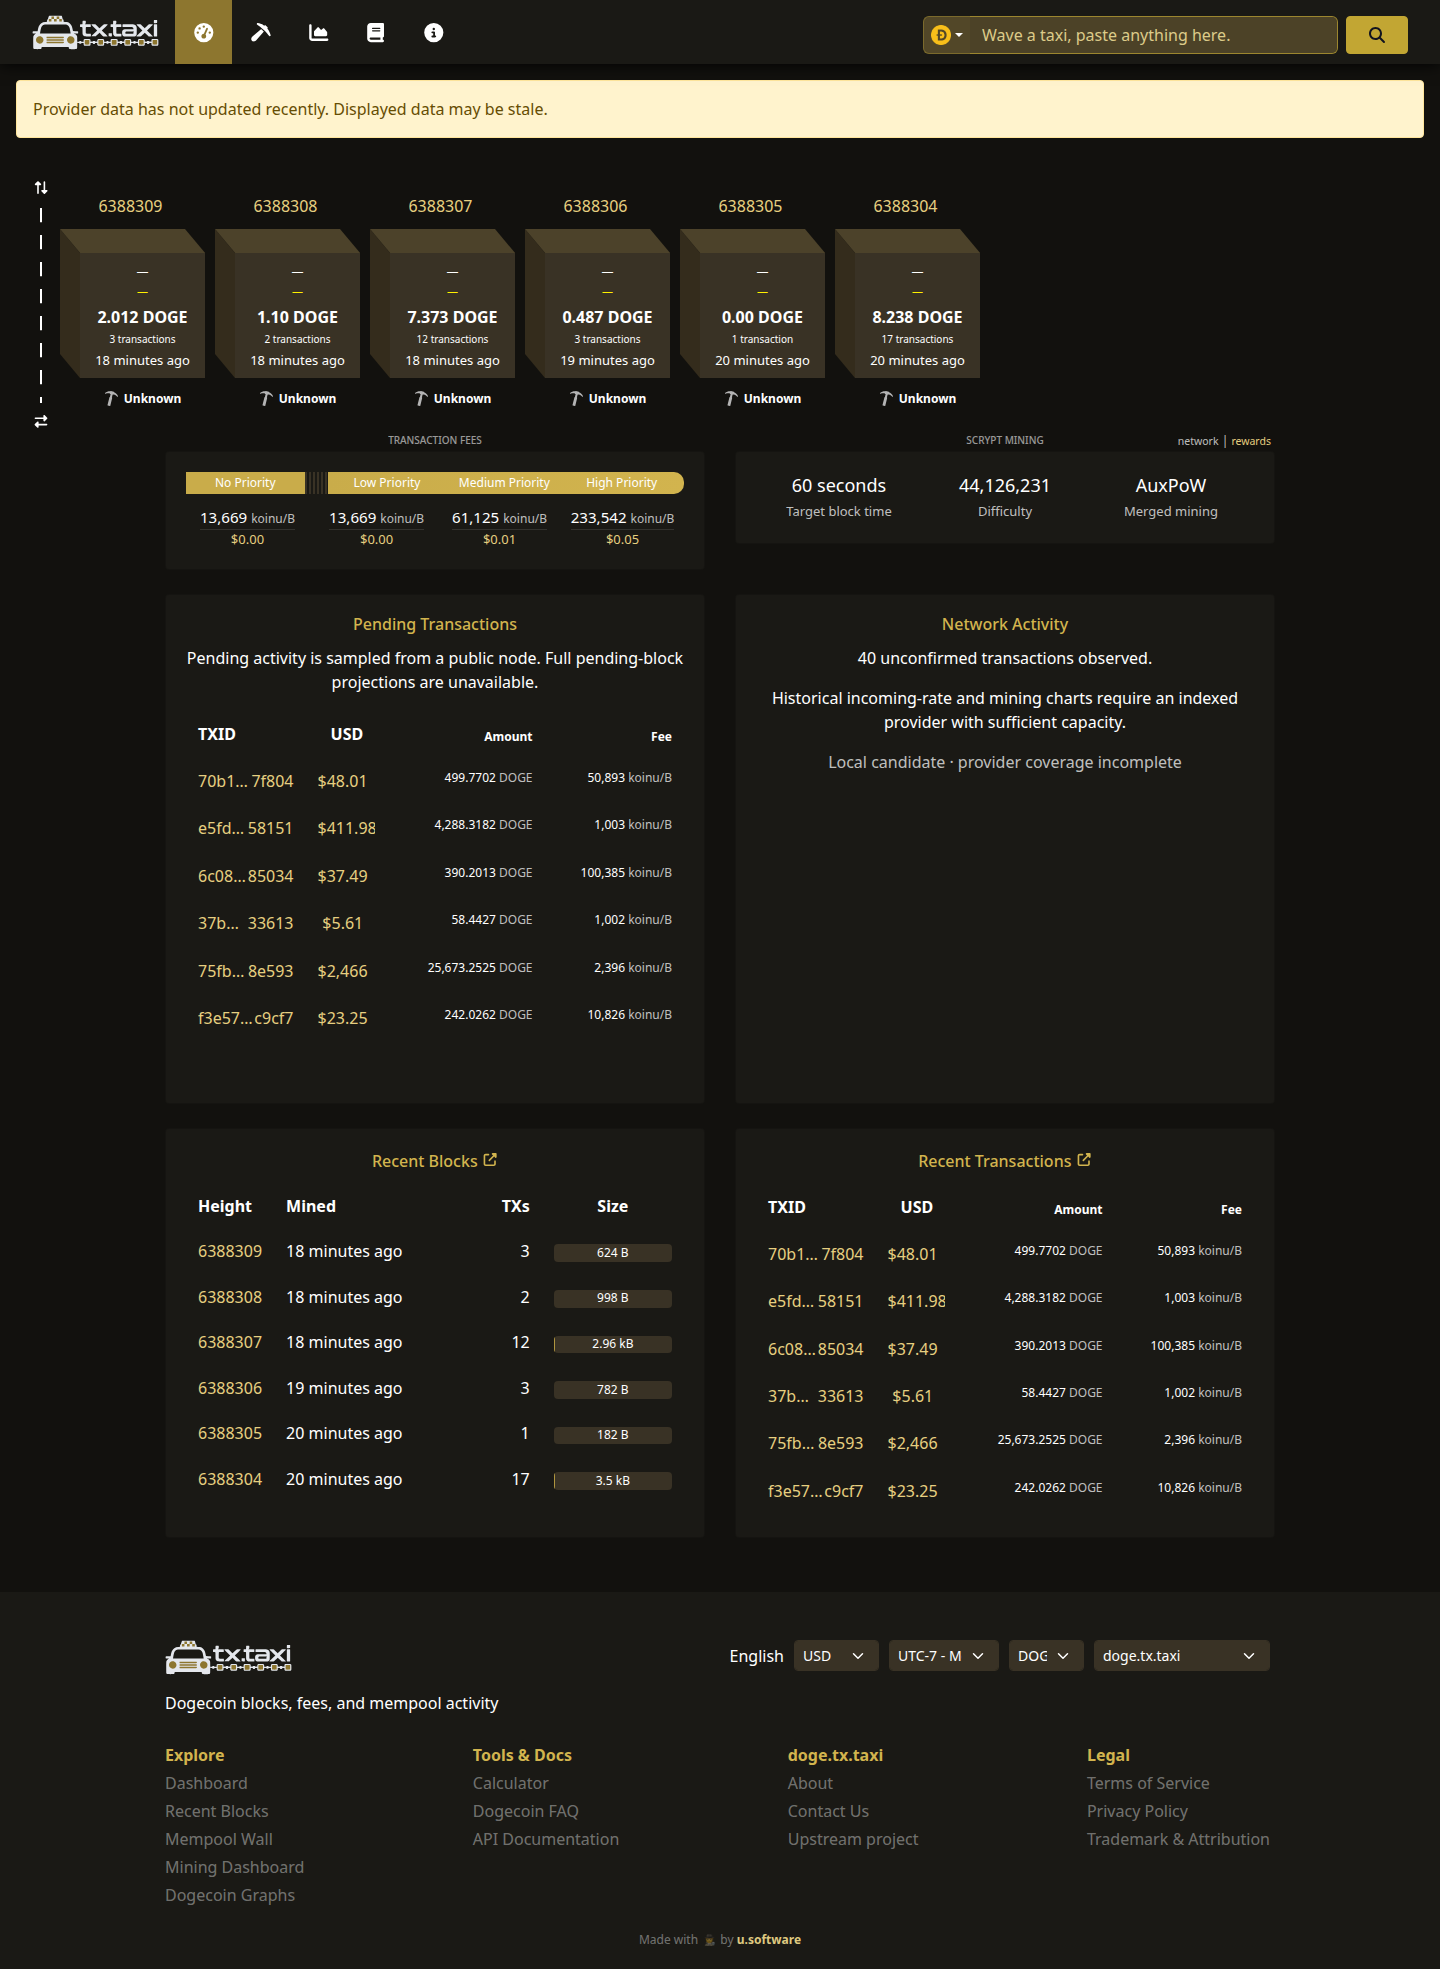
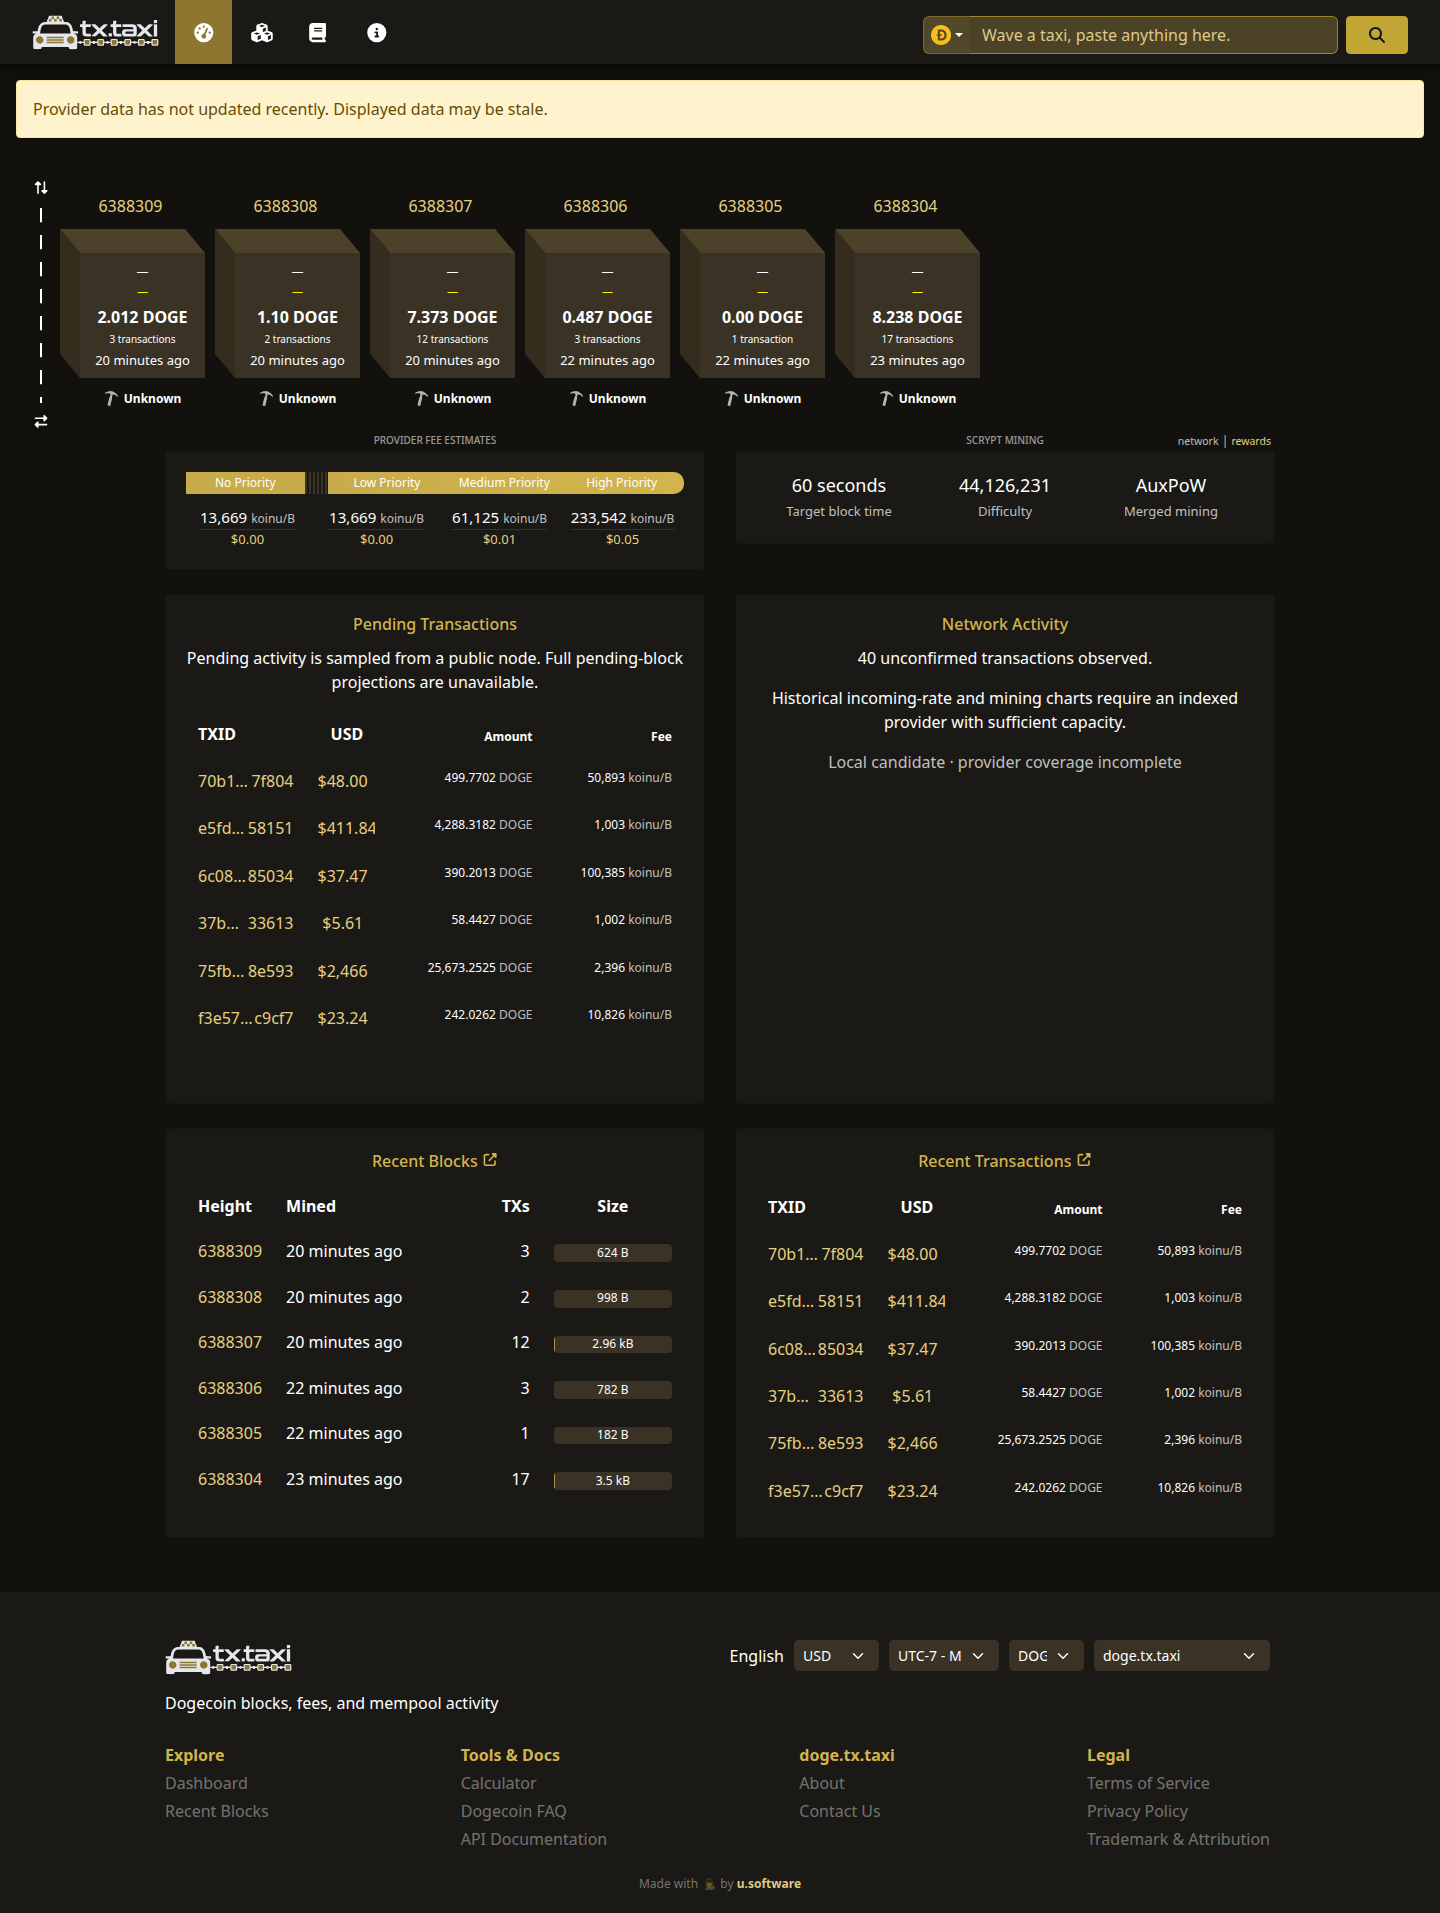
Prune unavailable DOGE navigation and label provider fee estimates

diff --git a/frontend/src/app/components/master-page/master-page.component.html b/frontend/src/app/components/master-page/master-page.component.html
@@ -83,24 +83,14 @@
           <div class="svg-wrapper"><app-svg-images name="nav-tachometer" width="21.59" height="100%"></app-svg-images></div>
         </a>
       </li>
-      <li class="nav-item mining" routerLinkActive="active" [routerLinkActiveOptions]="{exact: true}" id="btn-pools" *ngIf="stateService.env.MINING_DASHBOARD">
-        <a class="nav-link" [routerLink]="['/mining' | relativeUrl]" (click)="collapse()" aria-label="Mining dashboard" title="Mining dashboard">
-          <div class="svg-wrapper"><app-svg-images name="nav-pickaxe" width="21.59" height="100%"></app-svg-images></div>
-        </a>
-      </li>
       <li class="nav-item" routerLinkActive="active" [routerLinkActiveOptions]="{exact: true}" id="btn-lightning" *ngIf="stateService.networkSupportsLightning()">
         <a class="nav-link" [routerLink]="['/lightning' | relativeUrl]" (click)="collapse()">
           <div class="svg-wrapper"><app-svg-images name="nav-bolt" width="21.59" height="100%"></app-svg-images></div>
         </a>
       </li>
-      <li class="nav-item" routerLinkActive="active" id="btn-blocks" *ngIf="!stateService.env.MINING_DASHBOARD">
+      <li class="nav-item" routerLinkActive="active" id="btn-blocks">
         <a class="nav-link" [routerLink]="['/blocks' | relativeUrl]" (click)="collapse()" aria-label="Recent blocks" title="Recent blocks">
           <div class="svg-wrapper"><app-svg-images name="nav-cubes" width="21.59" height="100%"></app-svg-images></div>
-        </a>
-      </li>
-      <li class="nav-item" routerLinkActive="active" id="btn-graphs">
-        <a class="nav-link" [routerLink]="['/graphs' | relativeUrl]" (click)="collapse()" aria-label="Dogecoin graphs" title="Dogecoin graphs">
-          <div class="svg-wrapper"><app-svg-images name="nav-chart-area" width="21.59" height="100%"></app-svg-images></div>
         </a>
       </li>
       <li class="nav-item" routerLinkActive="active" id="btn-faucet" *ngIf="stateService.isMempoolSpaceBuild && stateService.env.OFFICIAL_MEMPOOL_SPACE && stateService.network === 'testnet4'">

diff --git a/frontend/src/app/shared/components/global-footer/global-footer.component.html b/frontend/src/app/shared/components/global-footer/global-footer.component.html
@@ -48,9 +48,6 @@
         <p class="category">Explore</p>
         <p><a [routerLink]="['/' | relativeUrl]">Dashboard</a></p>
         <p><a [routerLink]="['/blocks' | relativeUrl]">Recent Blocks</a></p>
-        <p><a [routerLink]="['/mempool-block/0' | relativeUrl]">Mempool Wall</a></p>
-        <p><a *ngIf="env.MINING_DASHBOARD" [routerLink]="['/mining' | relativeUrl]">Mining Dashboard</a></p>
-        <p><a [routerLink]="['/graphs' | relativeUrl]">Dogecoin Graphs</a></p>
       </div>
       <div class="links">
         <p class="category">Tools &amp; Docs</p>
@@ -65,7 +62,6 @@
         <p class="category">doge.tx.taxi</p>
         <p><a [routerLink]="['/about']">About</a></p>
         <p><a href="https://t.me/hiss" target="_blank" rel="noopener noreferrer">Contact Us</a></p>
-        <p><a href="https://github.com/mempool/mempool" target="_blank" rel="noopener noreferrer">Upstream project</a></p>
       </div>
       <div class="links">
         <p class="category">Legal</p>

diff --git a/frontend/src/app/components/custom-dashboard/custom-dashboard.component.html b/frontend/src/app/components/custom-dashboard/custom-dashboard.component.html
@@ -5,7 +5,7 @@
       @switch (widget.component) {
         @case ('fees') {
           <div class="col card-wrapper" [style.order]="isMobile && widget.mobileOrder || 8">
-            <div class="main-title" i18n="fees-box.transaction-fees">Transaction Fees</div>
+            <div class="main-title" title="BlockCypher fee estimates; not a confirmation guarantee">Provider fee estimates</div>
             <div class="card">
               <div class="card-body less-padding">
                 <app-fees-box class="d-block"></app-fees-box>

diff --git a/frontend/src/app/dashboard/dashboard.component.html b/frontend/src/app/dashboard/dashboard.component.html
@@ -3,7 +3,7 @@
   <div class="row row-cols-1 row-cols-md-2" *ngIf="{ value: (mempoolInfoData$ | async) } as mempoolInfoData">
     <ng-container>
       <div class="col card-wrapper">
-        <div class="main-title" i18n="fees-box.transaction-fees">Transaction Fees</div>
+        <div class="main-title" title="BlockCypher fee estimates; not a confirmation guarantee">Provider fee estimates</div>
         <div class="card">
           <div class="card-body less-padding">
             <app-fees-box class="d-block"></app-fees-box>

diff --git a/review/doge/acceptance.md b/review/doge/acceptance.md
@@ -22,3 +22,5 @@ Status: **incomplete**, preserved for local review. No deploy, push, production 
 - Historical fiat unsupported. Current quotes are independent and do not fix chain live coverage.
 
 Smallest requirement: reachable DOGE indexed/live capacity sufficient for the above remaining route/update checks, plus documented or raw-node AuxPoW size reconciliation. A paid key alone does not prove historical aggregation support. Full route acceptance is not claimed; inherited unsupported tool/docs routes remain candidate scope.
+
+Final navigation cleanup: removed promotional upstream footer link and known unsupported Mempool Wall, Mining Dashboard and Graphs entry points; retained About and Trademark/Attribution access. Fee heading explicitly says provider estimates with BlockCypher/no-guarantee tooltip. Reopened affected final desktop root screenshot: no overflow or page errors; watch build passes. Native strip and export sources unchanged.
